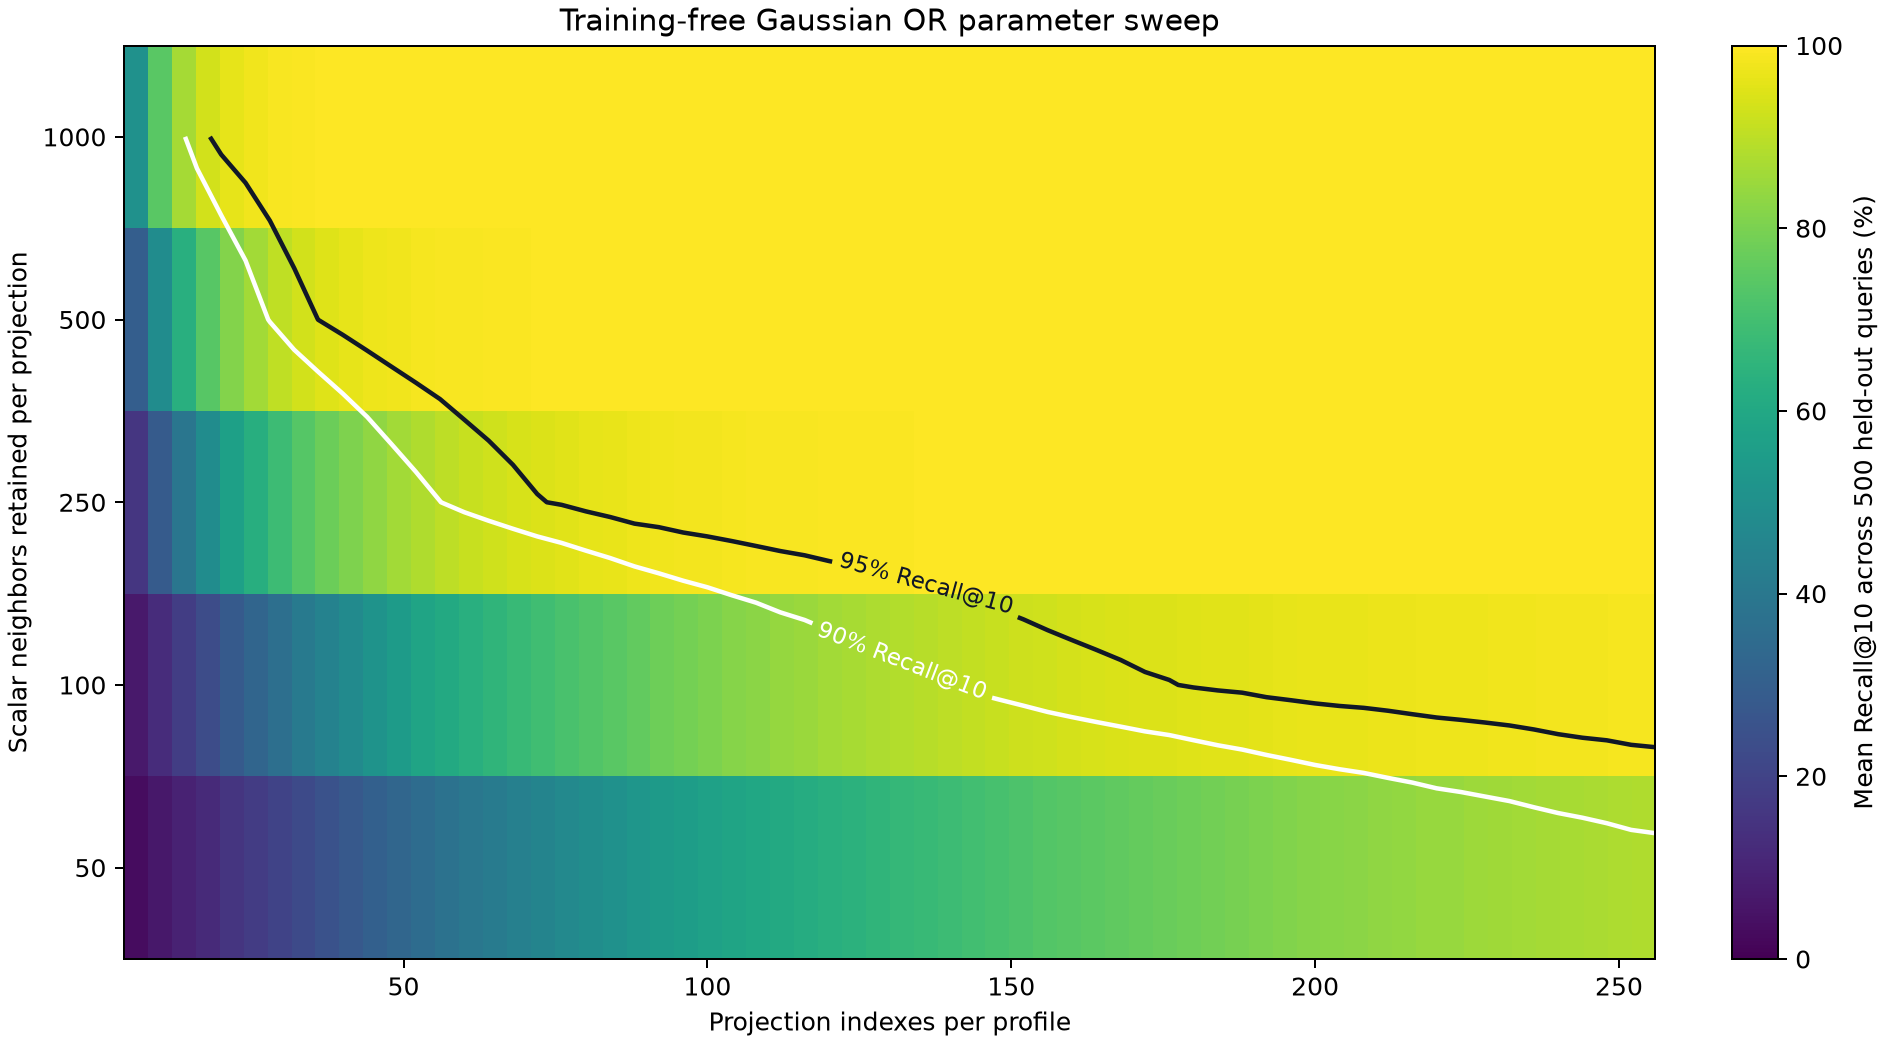
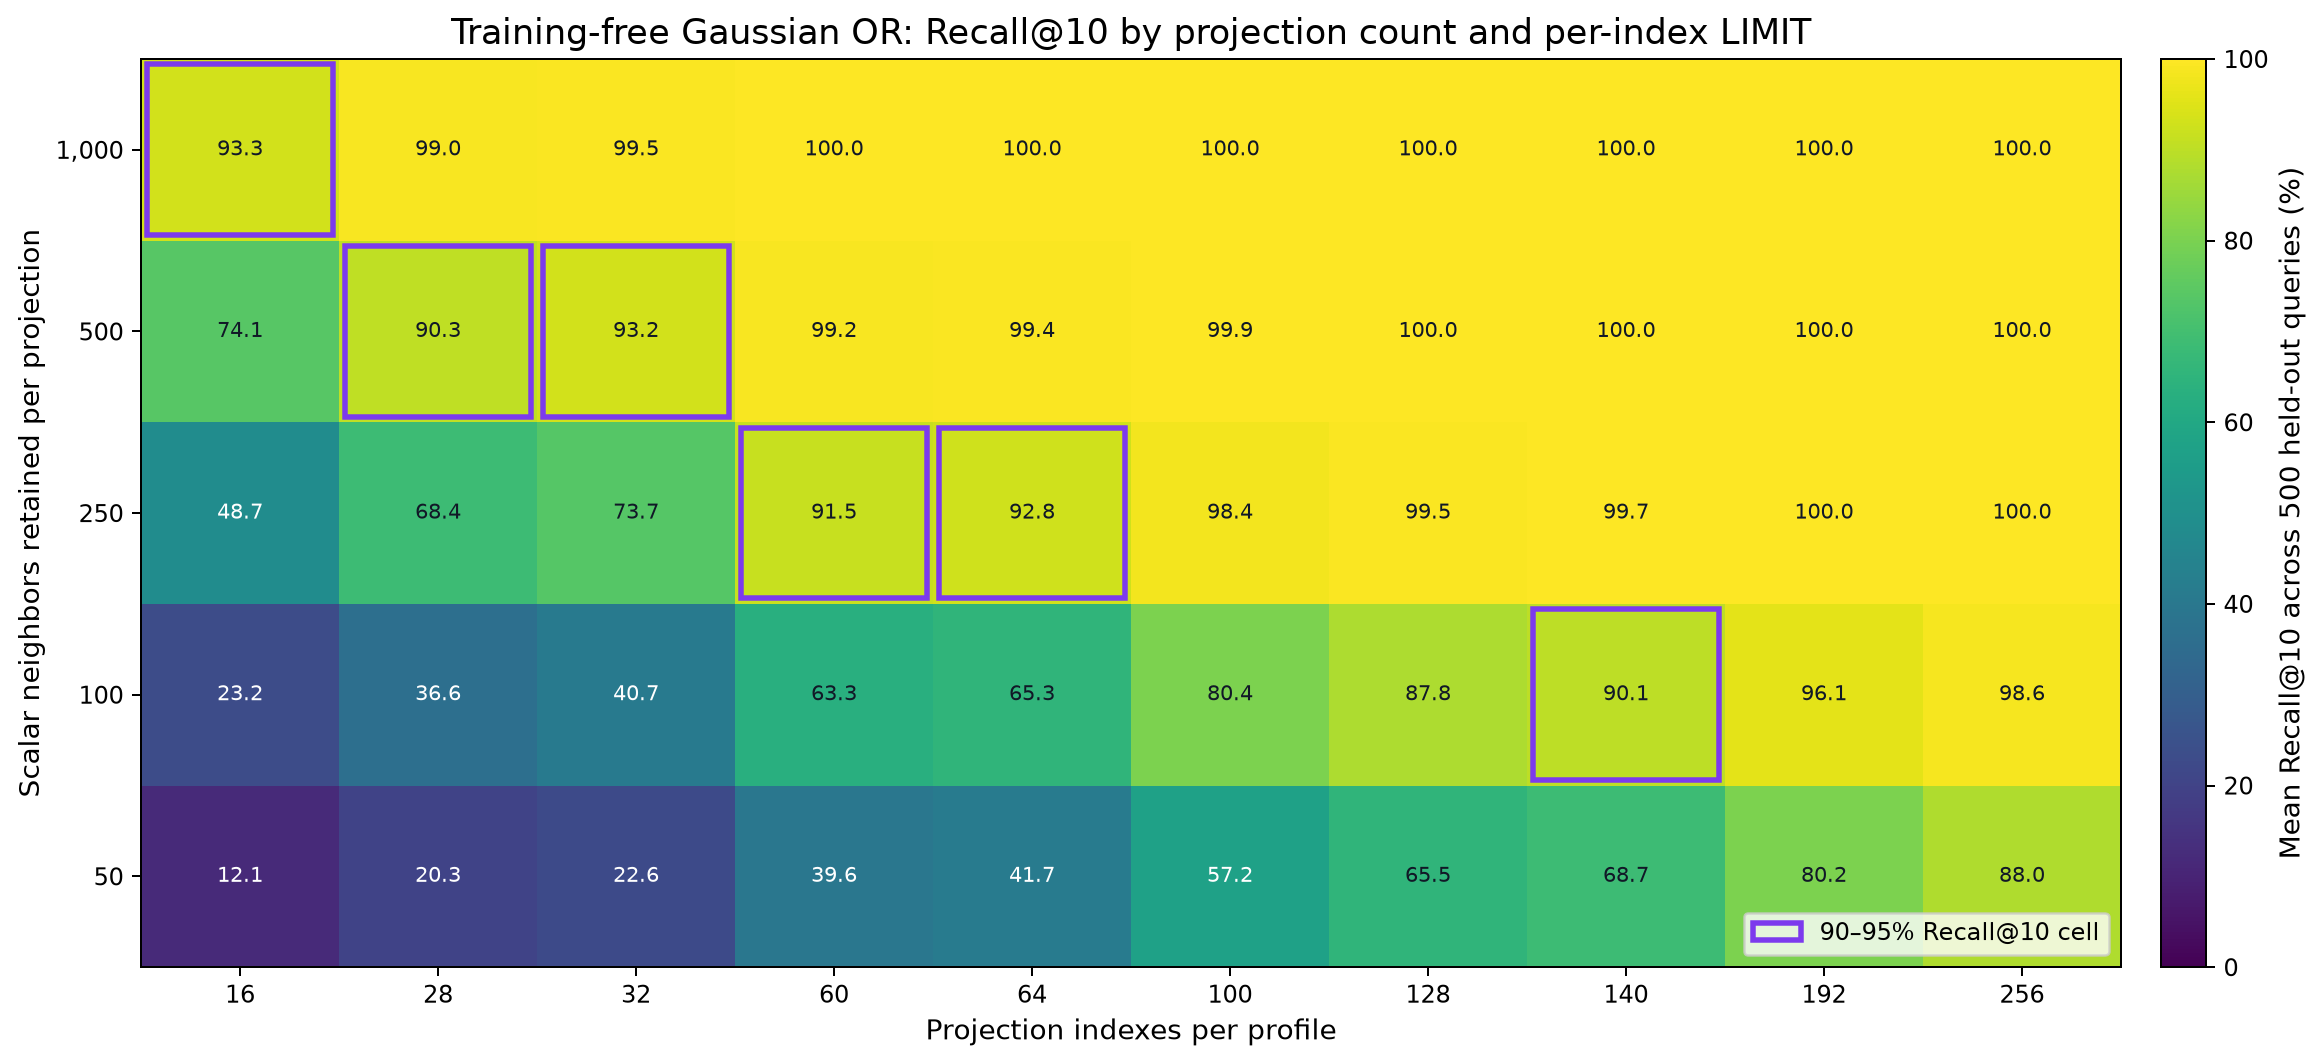
docs: clarify vector ANN benchmark figures

diff --git a/docs/21-vector-ann.md b/docs/21-vector-ann.md
@@ -377,13 +377,41 @@ For the last configuration, threshold 15 reduced candidates to 45.3% but also re
 
 ## Benchmark figures
 
-![Candidate coverage after scalar projection retrieval](assets/vector-ann-recall-candidates.png)
+The figures follow the decision sequence: compare strategies, inspect the 90–95% operating region, tune the trained profile, tune the training-free profile, then choose a collision threshold.
 
-The collision curve reports exact-rerank candidates, not index-read cost. Collision profiles read every configured per-projection hit before filtering.
+### Strategy overview
 
-![Training-free Gaussian OR parameter sweep](assets/vector-ann-qalsh-tuning.png)
+![Full-range candidate recall by projection strategy](assets/vector-ann-recall-candidates.png)
 
-The white contour is 90% Recall@10; the dark contour is 95%. The source rows for both figures are in [`vector-ann-benchmark.csv`](assets/vector-ann-benchmark.csv).
+The overview uses Pareto frontiers without a marker at every measurement. The dashed rectangle identifies the region expanded below, avoiding unreadable point clusters near the top of the full-range chart.
+
+### Target operating region and index work
+
+![Candidate selectivity and scalar index work in the target recall region](assets/vector-ann-operating-region.png)
+
+The left panel expands Recall@10 from 88% to 97% and labels the measured operating points. The right panel places the same points on a logarithmic scalar-hit axis. Marker area increases with the number of exact-rerank candidates.
+
+Scalar hits assume application-managed lower/upper cursor merging. Static SQL that materializes `K` rows from both directions may read up to twice the displayed count.
+
+### Trained PCA LIMIT tuning
+
+![One-axis PCA full and target-region LIMIT sweeps](assets/vector-ann-pca-tuning.png)
+
+The left panel retains the complete response curve. The right panel isolates the 90–95% band and labels the exact `K` values, including the first measured point above 95%.
+
+### Training-free Gaussian OR tuning
+
+![Training-free Gaussian OR Recall@10 matrix](assets/vector-ann-qalsh-tuning.png)
+
+Every cell prints measured Recall@10 for one projection-count and per-index `LIMIT` pair. Purple outlines identify cells in the 90–95% band. Values above 95% remain visible but are not presented as the lower-cost target region.
+
+### Collision-threshold tuning
+
+![Recall and rerank volume by Gaussian collision threshold](assets/vector-ann-collision-threshold.png)
+
+The top row isolates Recall@10 from 80% to 100%; the bottom row shows the corresponding exact-rerank fraction. Increasing the threshold reduces both quantities. The annotations mark the last measured threshold above 90% for each displayed profile.
+
+The collision curves report exact-rerank candidates, not index-read cost. Every configured per-projection hit is read before collision filtering. Source rows for all figures are in [`vector-ann-benchmark.csv`](assets/vector-ann-benchmark.csv).
 
 ### Reproducibility metadata
 
